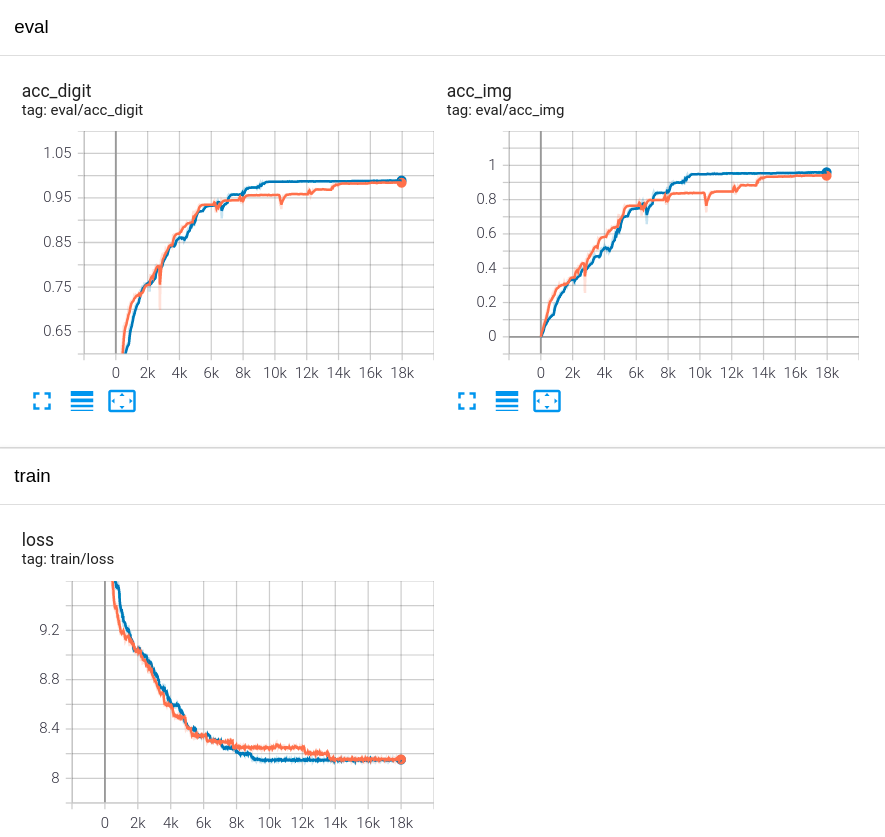
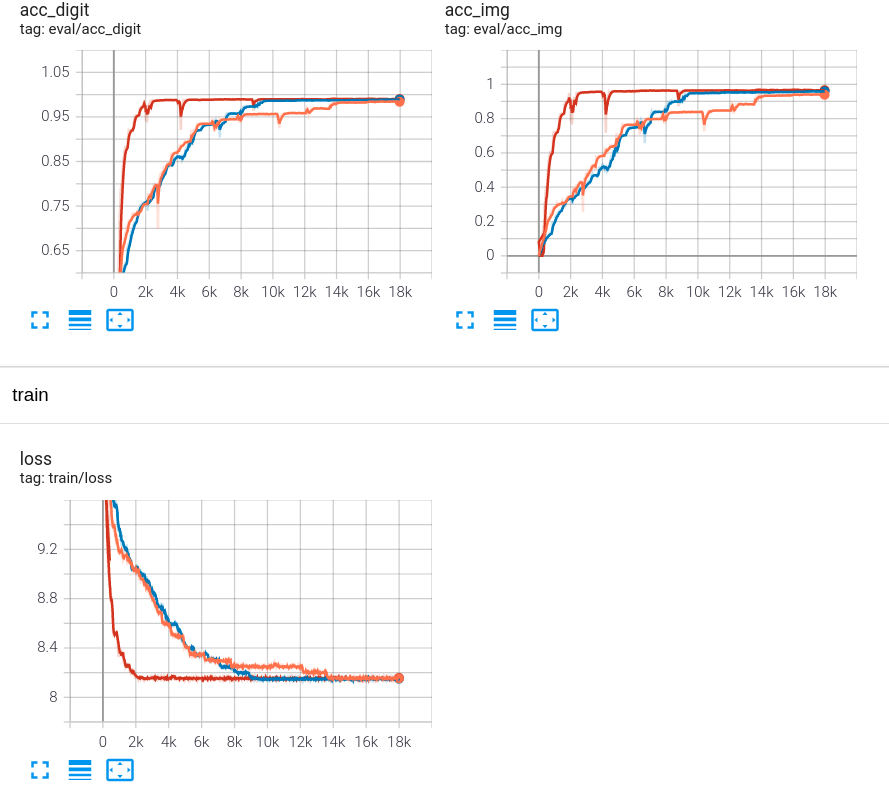
Update TF trained result, add scheduler in TF

diff --git a/src/train_tf.py b/src/train_tf.py
@@ -19,7 +19,7 @@ import numpy as np
 class Loss(tf.keras.layers.Layer):
     def __init__(self):
         super(Loss, self).__init__()
-        self.sce = tf.keras.losses.SparseCategoricalCrossentropy()
+        self.sce = tf.keras.losses.SparseCategoricalCrossentropy(from_logits=True)
 
     def call(self, scores, labels):
         sce0 = self.sce(labels[:, 0], scores[0])
@@ -42,12 +42,13 @@ def train(path=None, log_path=None):
     """ ===== Constant var. start ====="""
     train_comment = ""
     num_workers = 7
-    batch_size = 64
+    batch_size = 128
     lr = 0.001
     lr_decay = 0.9
+    lr_decay_step = 500
     max_epoch = 500
     stat_freq = 10
-    model_name = "0304_tf_2"
+    model_name = "0304_tf"
     """ ===== Constant var. end ====="""
 
     # step0: init. log and checkpoint dir.
@@ -85,7 +86,8 @@ def train(path=None, log_path=None):
 
     # step3: loss function and optimizer
     criterion = Loss()
-    optimizer = tf.keras.optimizers.Adam(1e-3)
+    scheduler = tf.keras.optimizers.schedules.ExponentialDecay(lr, lr_decay_step, lr_decay)
+    optimizer = tf.keras.optimizers.Adam(scheduler)
 
     global_step = tf.Variable(1)
     checkpoint = tf.train.Checkpoint(optimizer=optimizer, model=model, step=global_step,)
@@ -128,6 +130,7 @@ def train(path=None, log_path=None):
                         running_loss / stat_freq,
                         step=epoch * len(train_dataloader) + i,
                     )
+                    # tf.summary.scalar("train/lr", )
 
                 running_loss = 0.0
 
@@ -144,7 +147,7 @@ def train(path=None, log_path=None):
 
         if acc_img > best_acc_img:
             # ckpt_manager.save()
-            model.save(checkpoints_dir, save_format = 'h5')
+            model.save(checkpoints_dir, save_format="tf")
             print(
                 "acc_img : {}, acc_digit : {}, loss : {}".format(acc_img, acc_digit, previous_loss)
             )

diff --git a/src/export_tflite.py b/src/export_tflite.py
@@ -22,7 +22,7 @@ def export_frozen_pb(model, checkpoints_dir):
 
 
 if __name__ == "__main__":
-    model_path = "0304_tf_2"
+    model_path = "0304_tf"
     model_path = os.path.join("checkpoints", model_path)
 
     model = tf.keras.models.load_model(model_path)

diff --git a/README.md b/README.md
@@ -56,7 +56,9 @@ python src/train.py
 It stores the highest accuracy model in `checkpoints/`
 
 accuracy curve below shows no much difference with image preprocessing
-(blue with original images, orange with processed images)
+* blue: torch / ori image
+* orange: torch / aug img
+* red: tensorflow / ori image
 <img src="log.png">
 
 
